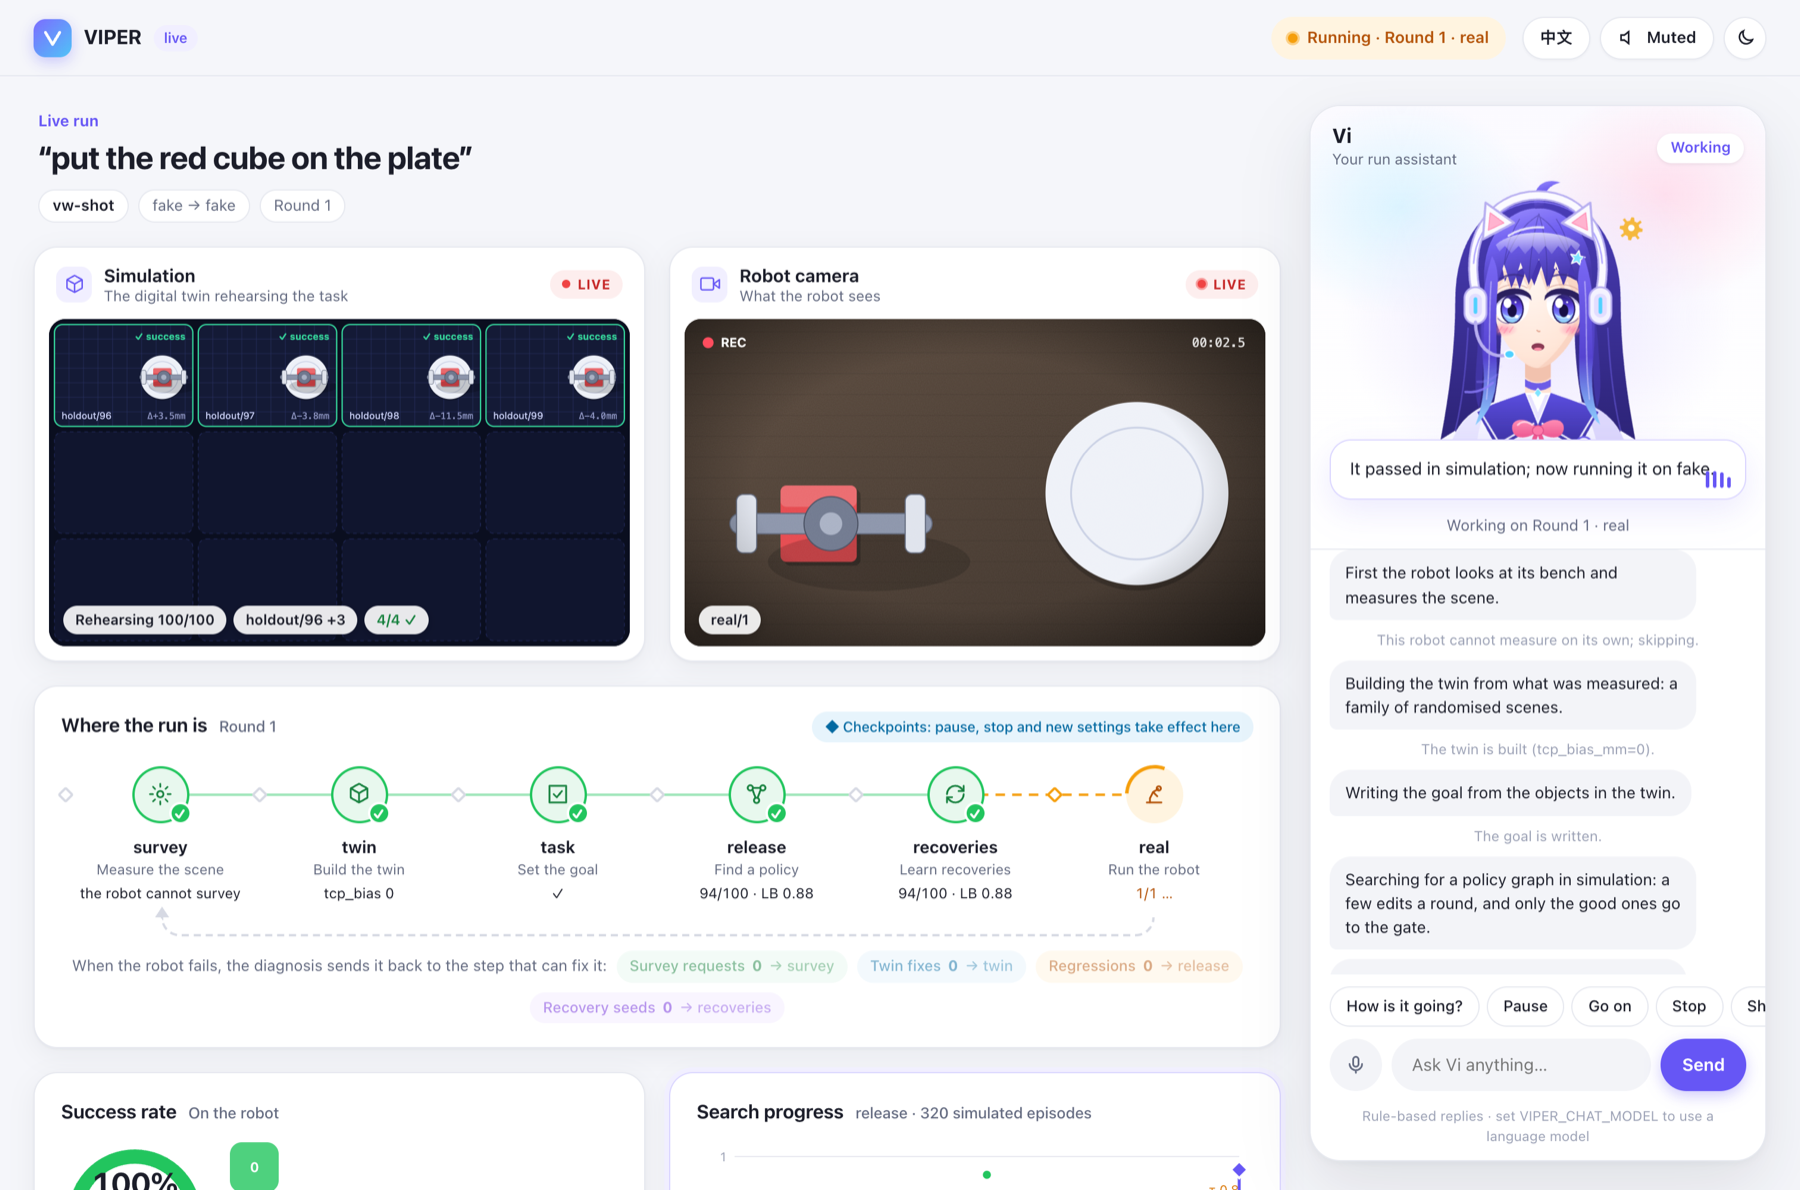
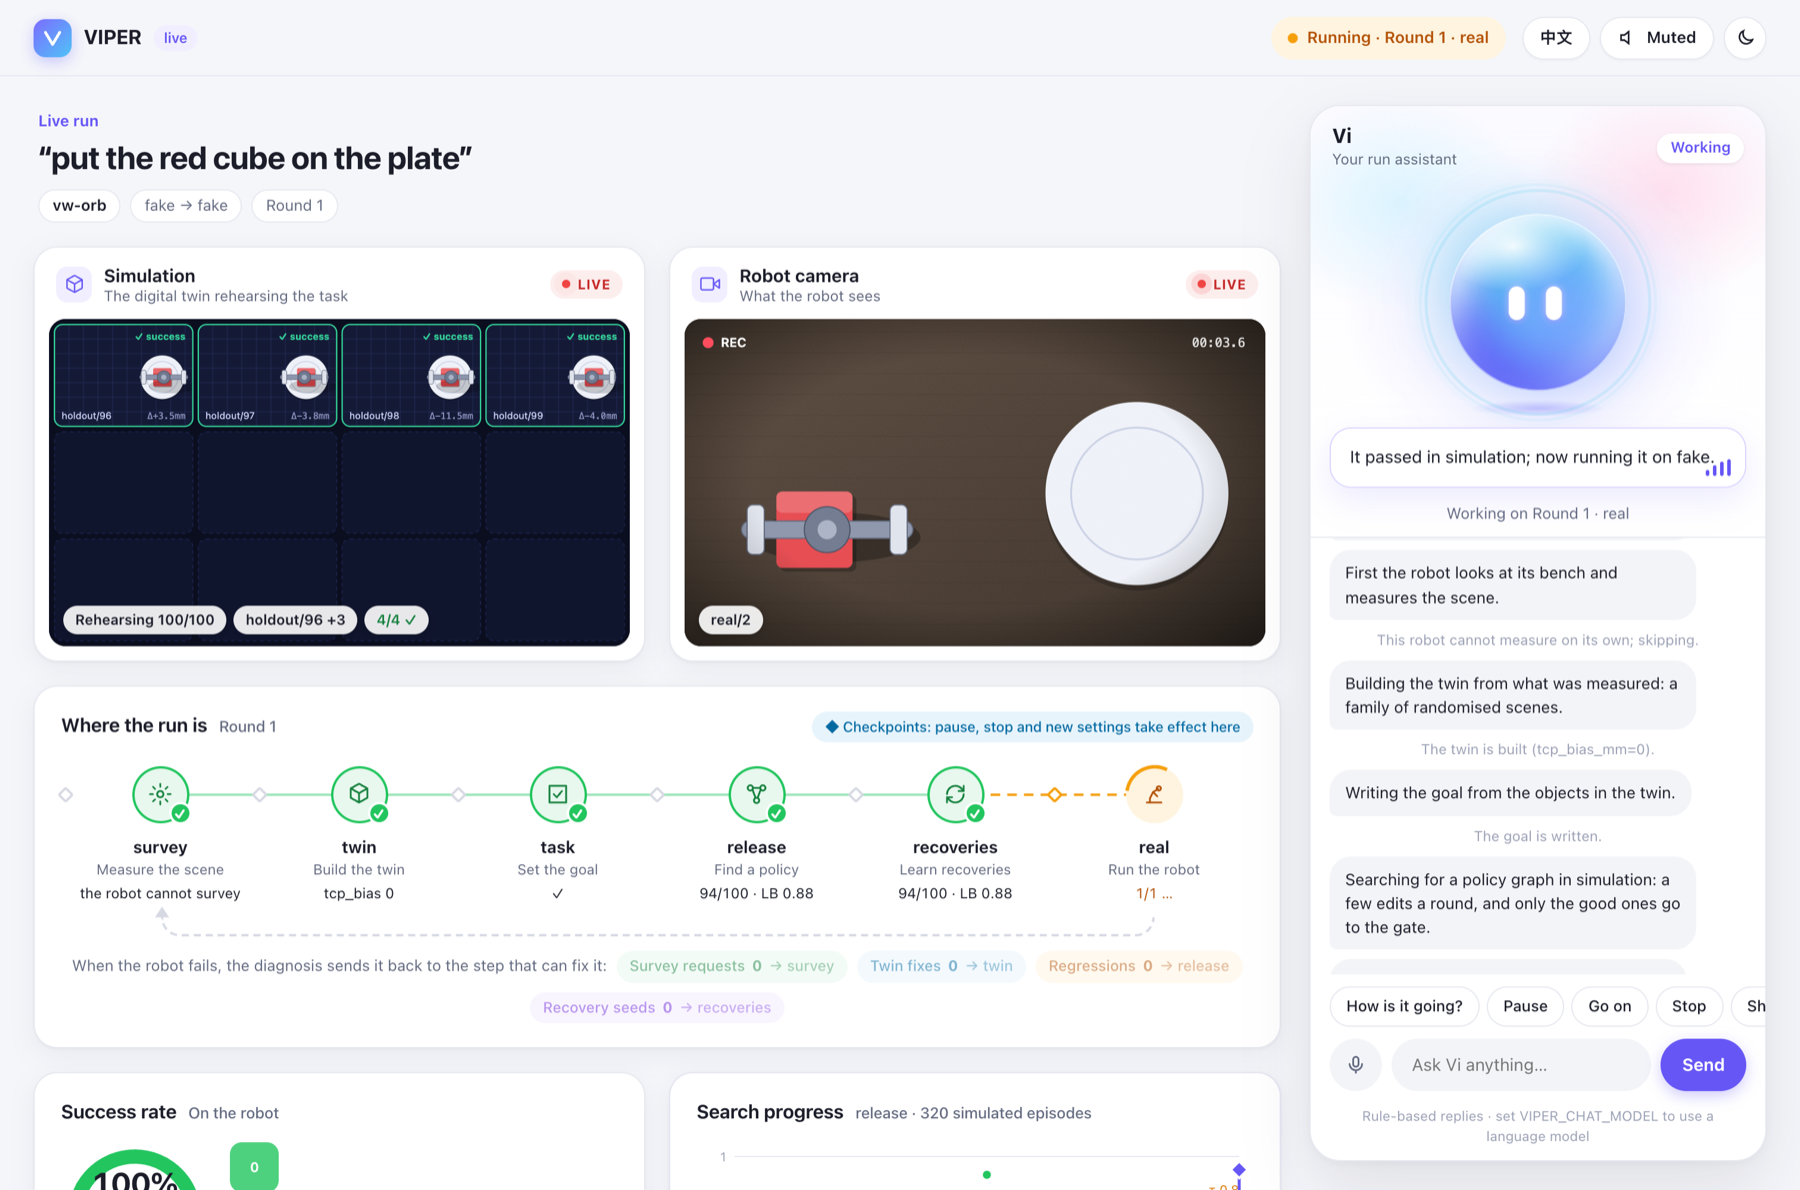
VIPER guide: Vi as a glowing orb in the live page screenshot, and the loop drawn as cards

diff --git a/viper/index.html b/viper/index.html
@@ -67,31 +67,7 @@ graph, the same one in simulation and on the robot.</p>
 <li><a href="#13-troubleshooting">13. Troubleshooting</a></li>
 </ul>
 <h2 id="1-the-loop">1. The loop</h2>
-<pre class="mermaid">flowchart LR
-  subgraph A[&quot;Agent A: see the bench&quot;]
-    survey[&quot;survey&lt;br/&gt;the robot measures its bench&quot;] --&gt; twin[&quot;twin&lt;br/&gt;a family of randomised scenes&quot;]
-  end
-  subgraph B[&quot;Agent B: iterate in simulation&quot;]
-    release[&quot;release&lt;br/&gt;search for a graph&quot;] --&gt; recoveries[&quot;recoveries&lt;br/&gt;grow recovery subgraphs&quot;]
-  end
-  subgraph C[&quot;Agent C: the robot&quot;]
-    real[&quot;real&lt;br/&gt;run on the robot&quot;]
-  end
-  brief([&quot;brief&quot;]) --&gt; survey
-  twin --&gt; task[&quot;task&lt;br/&gt;write the goal&quot;]
-  task --&gt; release
-  recoveries --&gt; real
-  real --&gt;|passes| done([&quot;deploy, save a version&quot;])
-  real --&gt;|fails| diag{&quot;diagnose&quot;}
-  diag --&gt;|measured outside the twin| tf[/twin_fixes/]
-  diag --&gt;|the twin fails it too| rg[/regressions/]
-  diag --&gt;|the twin does not, and the robot said where it stopped| rs[/recovery_seeds/]
-  diag --&gt;|the twin does not, and the robot can measure more| sr[/survey_requests/]
-  tf --&gt; twin
-  rg --&gt; release
-  rs --&gt; recoveries
-  sr --&gt; survey
-</pre>
+<p><img alt="The six targets grouped by agent, and the four routes by which a real failure goes back" src="assets/viper_loop.png" /></p>
 <table>
 <thead>
 <tr>

diff --git a/viper/zh.html b/viper/zh.html
@@ -61,31 +61,7 @@ img { max-width: 100%; height: auto; border: 1px solid var(--line); border-radiu
 <li><a href="#13-常见问题">13. 常见问题</a></li>
 </ul>
 <h2 id="1-总流程">1. 总流程</h2>
-<pre class="mermaid">flowchart LR
-  subgraph A[&quot;Agent A：看清现场&quot;]
-    survey[&quot;survey&lt;br/&gt;机器人测量工作台&quot;] --&gt; twin[&quot;twin&lt;br/&gt;建一族随机化孪生场景&quot;]
-  end
-  subgraph B[&quot;Agent B：在仿真里迭代&quot;]
-    release[&quot;release&lt;br/&gt;搜索策略图&quot;] --&gt; recoveries[&quot;recoveries&lt;br/&gt;长出恢复子图&quot;]
-  end
-  subgraph C[&quot;Agent C：真机&quot;]
-    real[&quot;real&lt;br/&gt;机器人执行&quot;]
-  end
-  brief([&quot;brief&quot;]) --&gt; survey
-  twin --&gt; task[&quot;task&lt;br/&gt;写目标 goal&quot;]
-  task --&gt; release
-  recoveries --&gt; real
-  real --&gt;|通过| done([&quot;部署，存一个版本包&quot;])
-  real --&gt;|失败| diag{&quot;diagnose&quot;}
-  diag --&gt;|测量值超出 twin 范围| tf[/twin_fixes/]
-  diag --&gt;|twin 也复现失败| rg[/regressions/]
-  diag --&gt;|twin 不复现，知道卡在哪| rs[/recovery_seeds/]
-  diag --&gt;|twin 不复现，还能测更多| sr[/survey_requests/]
-  tf --&gt; twin
-  rg --&gt; release
-  rs --&gt; recoveries
-  sr --&gt; survey
-</pre>
+<p><img alt="六个目标按智能体分组，以及真机失败送回去的四条路" src="assets/viper_loop.zh-CN.png" /></p>
 <table>
 <thead>
 <tr>
